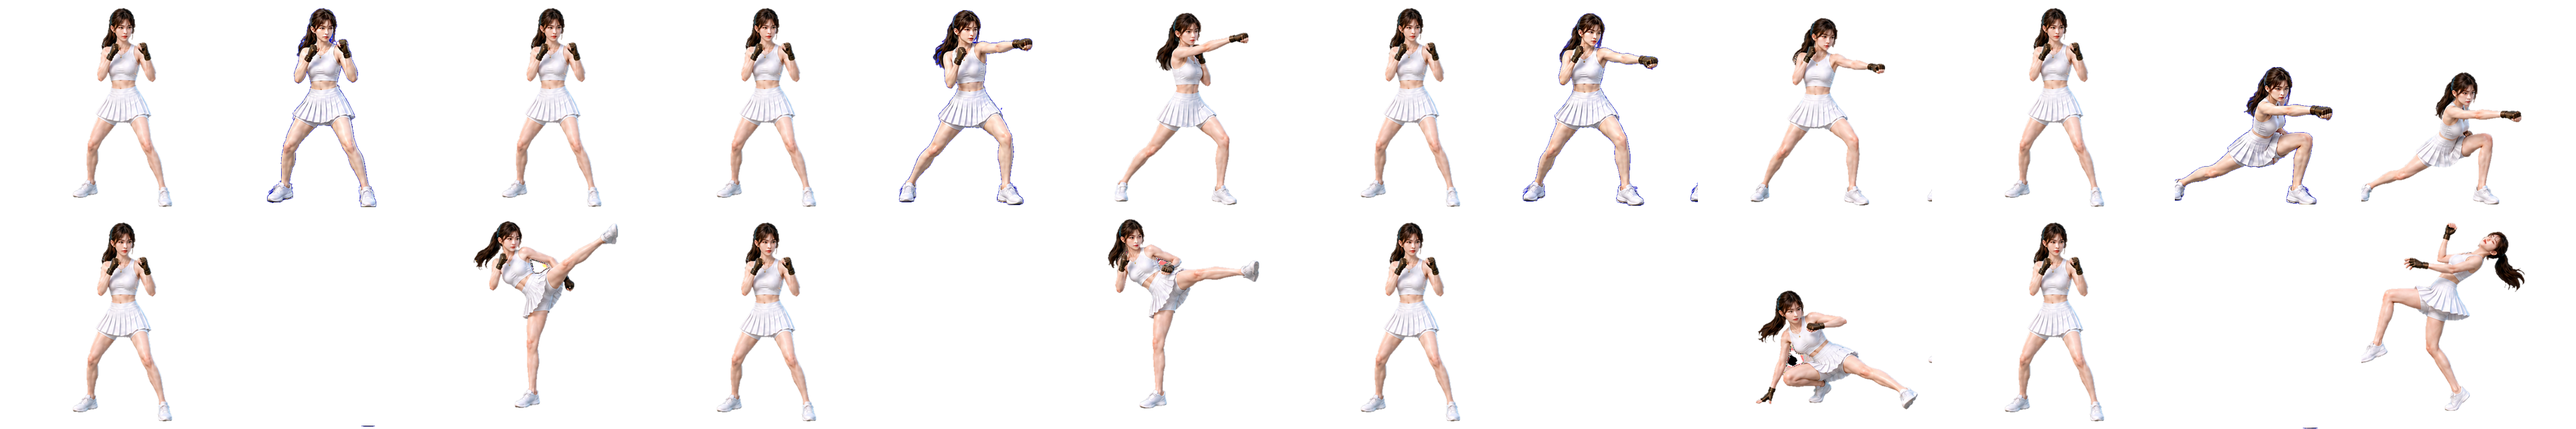
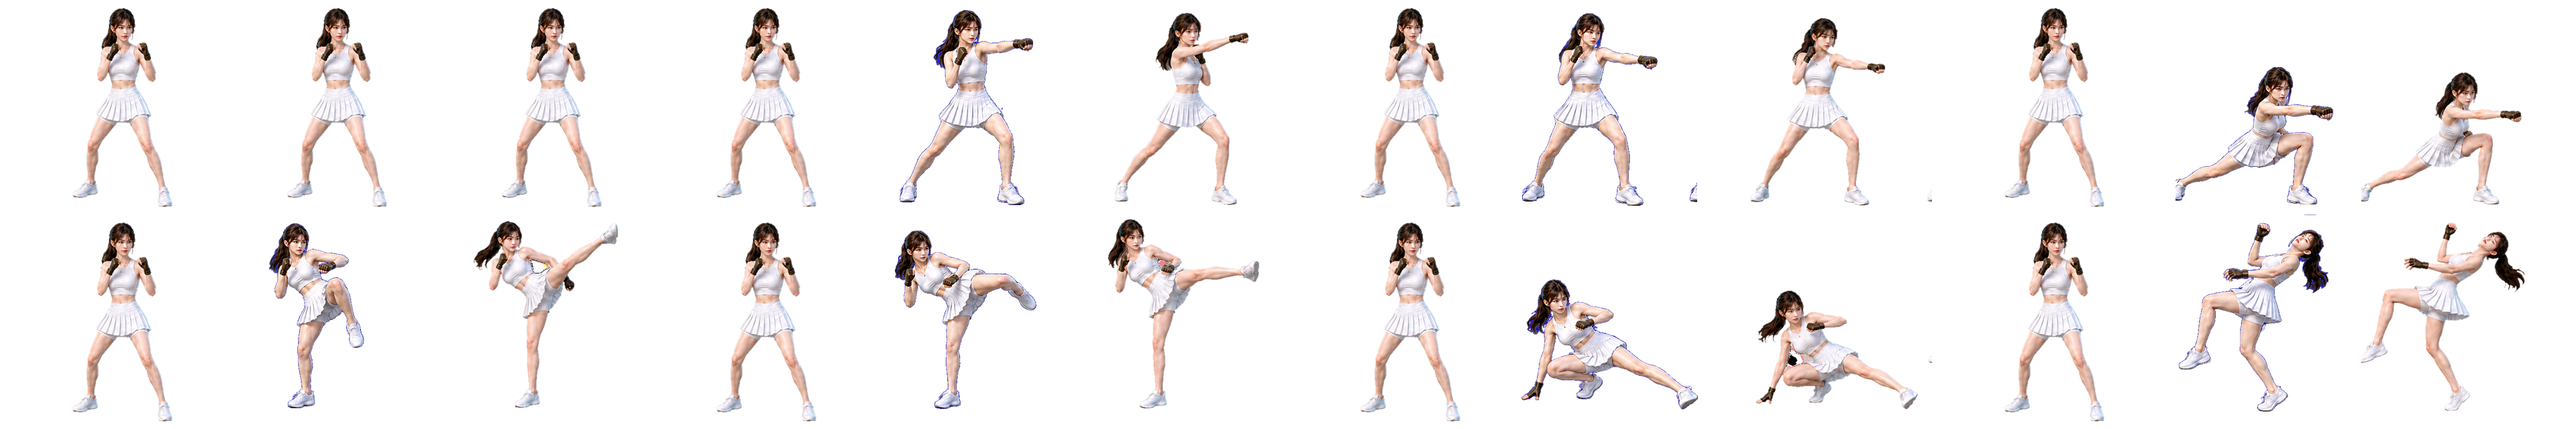
Fix sprite row placement, gait continuity and attack pose timing

diff --git a/components/game/karate-game.tsx b/components/game/karate-game.tsx
@@ -336,6 +336,7 @@ class Fighter {
   state = 'IDLE';
   crouching = false;
   moveIntent = 0;
+  walkCycle = 0;
   attack: AttackRuntime | null = null;
   stunFrames = 0;
   stunTotalFrames = 0;
@@ -360,6 +361,7 @@ class Fighter {
     this.state = 'IDLE';
     this.crouching = false;
     this.moveIntent = 0;
+    this.walkCycle = 0;
     this.attack = null;
     this.stunFrames = 0;
     this.stunTotalFrames = 0;
@@ -442,6 +444,11 @@ class Fighter {
     const exhausted = this.stamina < 20;
     const speed = this.moveIntent > 0 ? 180 : 155;
     if (!this.crouching && this.moveIntent !== 0) {
+      // Advance only while this fighter moves; pauses and hit-stop keep the
+      // same supporting leg, and reversing direction retraces the same cycle.
+      this.walkCycle = (
+        this.walkCycle + this.moveIntent * this.direction * speed * (exhausted ? 0.9 : 1) * dt / 120 + 1
+      ) % 1;
       this.x += this.moveIntent * speed * (exhausted ? 0.9 : 1) * dt;
       this.state =
         this.moveIntent === this.direction ? 'MOVE_FORWARD' : 'MOVE_BACKWARD';
@@ -1587,20 +1594,27 @@ function actionFrameFor(fighter: Fighter) {
   if (fighter.state === 'THROW') return 2;
   if (!fighter.attack) return 0;
 
-  const { data, frame } = fighter.attack;
+  const { data } = fighter.attack;
   if (data.attackType === 'GUN') return 0;
   const actionFrame =
     data.attackType === 'PUNCH'
       ? { HIGH: 1, MID: 2, LOW: 3 }[data.attackLevel]
       : { HIGH: 4, MID: 5, LOW: 6 }[data.attackLevel];
-  const activeEnd = data.startupFrames + data.activeFrames;
-  const total = activeEnd + data.recoveryFrames;
-  if (
-    frame < data.startupFrames * 0.42 ||
-    frame > total - data.recoveryFrames * 0.36
-  )
-    return 0;
   return actionFrame;
+}
+
+// Match the visual contact pose to the actual hit window, including fatigue.
+function attackPosePhase(fighter: Fighter) {
+  if (!fighter.attack) return 0;
+  const { data, frame, startupMultiplier, recoveryMultiplier } = fighter.attack;
+  const startup = data.startupFrames * startupMultiplier;
+  const activeEnd = startup + data.activeFrames;
+  const recovery = data.recoveryFrames * recoveryMultiplier;
+  if (frame < startup * 0.25) return 0;
+  if (frame < startup) return 1;
+  if (frame < activeEnd) return 2;
+  if (frame < activeEnd + recovery * 0.7) return 1;
+  return 0;
 }
 
 function reactionFrameFor(fighter: Fighter) {
@@ -1676,14 +1690,7 @@ function drawEnemyActionFrame(
 
 function gunFrameFor(fighter: Fighter) {
   if (!fighter.attack || fighter.attack.data.attackType !== 'GUN') return 0;
-  const { data, frame } = fighter.attack;
-  const activeEnd = data.startupFrames + data.activeFrames;
-  const total = activeEnd + data.recoveryFrames;
-  if (
-    frame < data.startupFrames * 0.38 ||
-    frame > total - data.recoveryFrames * 0.32
-  )
-    return 0;
+  const { data } = fighter.attack;
   return { HIGH: 1, MID: 2, LOW: 3 }[data.attackLevel];
 }
 
@@ -1769,34 +1776,17 @@ function drawFighter(
     : isKai
       ? world.maleActionSheet
       : world.actionSheet;
-  const attackTotal = attack
-    ? attack.startupFrames + attack.activeFrames + attack.recoveryFrames
-    : 1;
-  const attackProgress = fighter.attack
-    ? clamp(fighter.attack.frame / attackTotal, 0, 1)
-    : 0;
-  const actionPulse = attack ? Math.sin(Math.PI * attackProgress) : 0;
-  const posePhase = Math.min(2, Math.floor(actionPulse * 3));
+  const posePhase = attackPosePhase(fighter);
   const stunProgress =
     fighter.stunTotalFrames > 0
       ? 1 - fighter.stunFrames / fighter.stunTotalFrames
       : 0.5;
-  const stunPulse = Math.sin(Math.PI * clamp(stunProgress, 0, 1));
+  // A hit begins at impact, not at the neutral stance. Recover only afterward.
   const stunPosePhase =
-    fighter.state === 'KNOCKDOWN'
+    fighter.state === 'KNOCKDOWN' || stunProgress < 0.4
       ? 2
-      : Math.min(2, Math.floor(stunPulse * 3));
+      : 1;
   const expandedFrame = frame * 3 + posePhase;
-  const activeThrust =
-    attack && attack.attackType !== 'GUN'
-      ? actionPulse * (attack.attackType === 'KICK' ? 42 : 28)
-      : 0;
-  const attackRotation =
-    attack && attack.attackType !== 'GUN'
-      ? fighter.direction *
-        actionPulse *
-        (attack.attackType === 'KICK' ? -0.055 : -0.025)
-      : 0;
   const spriteIndex = isEnemy ? world.aiIndex : 0;
   const enemyActionSize =
     ENEMY_ACTION_SIZES[spriteIndex] ?? ENEMY_ACTION_SIZES[0];
@@ -1804,7 +1794,7 @@ function drawFighter(
     ENEMY_FRAME_RECTS[spriteIndex] ?? ENEMY_FRAME_RECTS[0];
   const actionSize = isEnemy || isKai ? enemyActionSize : PLAYER_ACTION_SIZE;
   const actionGroundOffset =
-    PLAYER_ACTION_GROUND_OFFSETS[frame] ?? PLAYER_ACTION_GROUND_OFFSETS[0];
+    PLAYER_ACTION_GROUND_OFFSETS[posePhase === 0 ? 0 : frame] ?? PLAYER_ACTION_GROUND_OFFSETS[0];
 
   ctx.save();
   ctx.globalAlpha = 0.38;
@@ -1815,8 +1805,8 @@ function drawFighter(
   ctx.restore();
 
   ctx.save();
-  ctx.translate(fighter.x + fighter.direction * activeThrust, baseY);
-  ctx.rotate(attackRotation);
+  // The poses already contain limb extension; keep the supporting foot planted.
+  ctx.translate(fighter.x, baseY);
   ctx.scale(fighter.direction, 1);
   if (isHitPose && reactionFrame !== null) {
     if (isEnemy || isKai) {
@@ -1880,7 +1870,11 @@ function drawFighter(
         PLAYER_GUARD_GROUND_OFFSETS[3],
       );
   } else if (isWalking) {
-    const walkFrame = Math.floor(world.animationTime * 24) % 12;
+    // Each triplet ends with the following triplet's first pose. Skip those
+    // duplicated endpoints so foot exchange has an even cadence, including wrap.
+    const walkSequence = [0, 1, 3, 4, 6, 7, 9, 10];
+    const walkStep = Math.floor(fighter.walkCycle * walkSequence.length);
+    const walkFrame = walkSequence[walkStep];
     const walkSheet = isEnemy
       ? world.enemyWalkSheets[world.aiIndex]
       : world.walkSheets[world.playerCharacter];
@@ -2271,18 +2265,18 @@ export function KarateGame() {
         fetch('/game-data/attacks.json'),
         fetch('/game-data/ai.json'),
         loadImage('/urban-stage-seamless.png'),
-        loadImage('/fio-actions-smooth-v4.png'),
-        loadImage('/fio-hit-reactions-smooth-v4.png'),
-        loadImage('/enemy-quick-fist-smooth-v4.png'),
-        loadImage('/enemy-long-kick-smooth-v4.png'),
-        loadImage('/enemy-grappler-smooth-v4.png'),
-        loadImage('/fio-guards-smooth-v4.png'),
-        loadImage('/fio-gun-actions-smooth-v4.png'),
-        loadImage('/kai-gun-actions-smooth-v4.png'),
-        loadImage('/fio-walk-smooth-v4.png'),
-        loadImage('/kai-walk-smooth-v4.png'),
-        loadImage('/enemy-long-kick-walk-smooth-v4.png'),
-        loadImage('/enemy-grappler-walk-smooth-v4.png'),
+        loadImage('/fio-actions-smooth-v4.png?pose=5'),
+        loadImage('/fio-hit-reactions-smooth-v4.png?pose=5'),
+        loadImage('/enemy-quick-fist-smooth-v4.png?pose=5'),
+        loadImage('/enemy-long-kick-smooth-v4.png?pose=5'),
+        loadImage('/enemy-grappler-smooth-v4.png?pose=5'),
+        loadImage('/fio-guards-smooth-v4.png?pose=5'),
+        loadImage('/fio-gun-actions-smooth-v4.png?pose=5'),
+        loadImage('/kai-gun-actions-smooth-v4.png?pose=5'),
+        loadImage('/fio-walk-smooth-v4.png?pose=5'),
+        loadImage('/kai-walk-smooth-v4.png?pose=5'),
+        loadImage('/enemy-long-kick-walk-smooth-v4.png?pose=5'),
+        loadImage('/enemy-grappler-walk-smooth-v4.png?pose=5'),
       ]);
       const attacks = (await attacksResponse.json()) as AttackData[];
       const aiPayload = (await aiResponse.json()) as AIData[] | AIData;

diff --git a/public/sw.js b/public/sw.js
@@ -1,4 +1,4 @@
-const CACHE_NAME = 'neon-karate-v11';
+const CACHE_NAME = 'neon-karate-v12';
 const APP_SHELL = [
   '/',
   '/manifest.webmanifest',
@@ -10,18 +10,18 @@ const APP_SHELL = [
   '/game-data/attacks.json',
   '/game-data/ai.json',
   '/urban-stage-seamless.png',
-  '/fio-actions-smooth-v4.png',
-  '/fio-hit-reactions-smooth-v4.png',
-  '/fio-guards-smooth-v4.png',
-  '/fio-gun-actions-smooth-v4.png',
-  '/kai-gun-actions-smooth-v4.png',
-  '/fio-walk-smooth-v4.png',
-  '/kai-walk-smooth-v4.png',
-  '/enemy-long-kick-walk-smooth-v4.png',
-  '/enemy-grappler-walk-smooth-v4.png',
-  '/enemy-quick-fist-smooth-v4.png',
-  '/enemy-long-kick-smooth-v4.png',
-  '/enemy-grappler-smooth-v4.png',
+  '/fio-actions-smooth-v4.png?pose=5',
+  '/fio-hit-reactions-smooth-v4.png?pose=5',
+  '/fio-guards-smooth-v4.png?pose=5',
+  '/fio-gun-actions-smooth-v4.png?pose=5',
+  '/kai-gun-actions-smooth-v4.png?pose=5',
+  '/fio-walk-smooth-v4.png?pose=5',
+  '/kai-walk-smooth-v4.png?pose=5',
+  '/enemy-long-kick-walk-smooth-v4.png?pose=5',
+  '/enemy-grappler-walk-smooth-v4.png?pose=5',
+  '/enemy-quick-fist-smooth-v4.png?pose=5',
+  '/enemy-long-kick-smooth-v4.png?pose=5',
+  '/enemy-grappler-smooth-v4.png?pose=5',
 ];
 
 self.addEventListener('install', (event) => {
